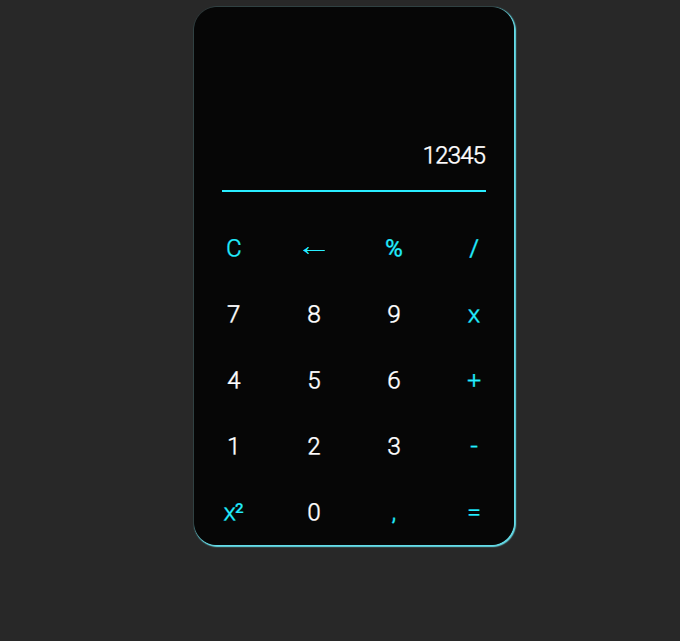
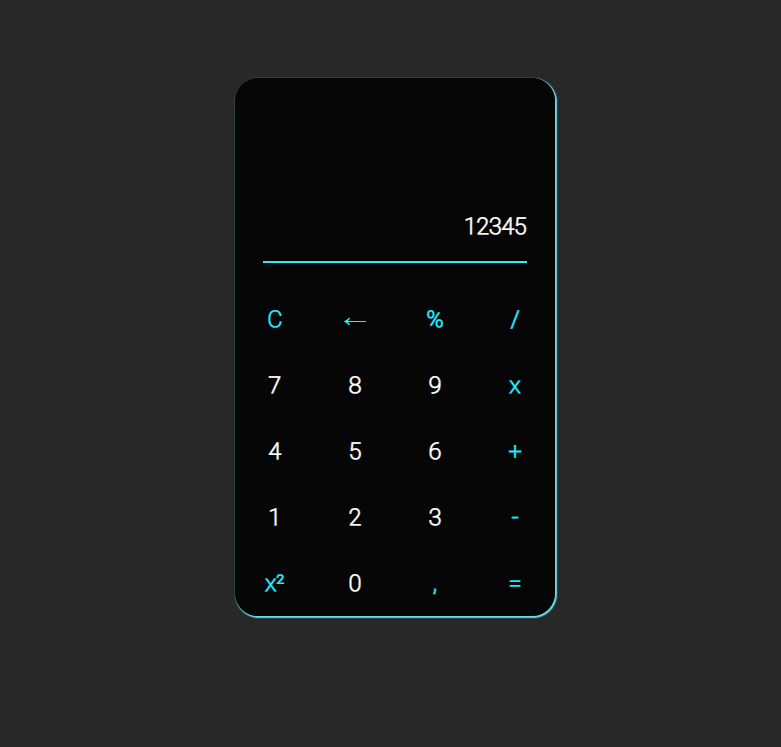
alterando a img de resultado do projeto

diff --git a/estilos.css b/estilos.css
@@ -14,7 +14,8 @@ body {
     font-family: 'Roboto', sans-serif;
     border-radius: 1em;
     font-size: 1.3em;
-    box-shadow: 1px 1px 1px 1px rgba(101, 223, 235, 0.986);;
+    box-shadow: 1px 1px 1px 1px rgba(101, 223, 235, 0.986);
+    margin-top: 100px
 
 }
 
